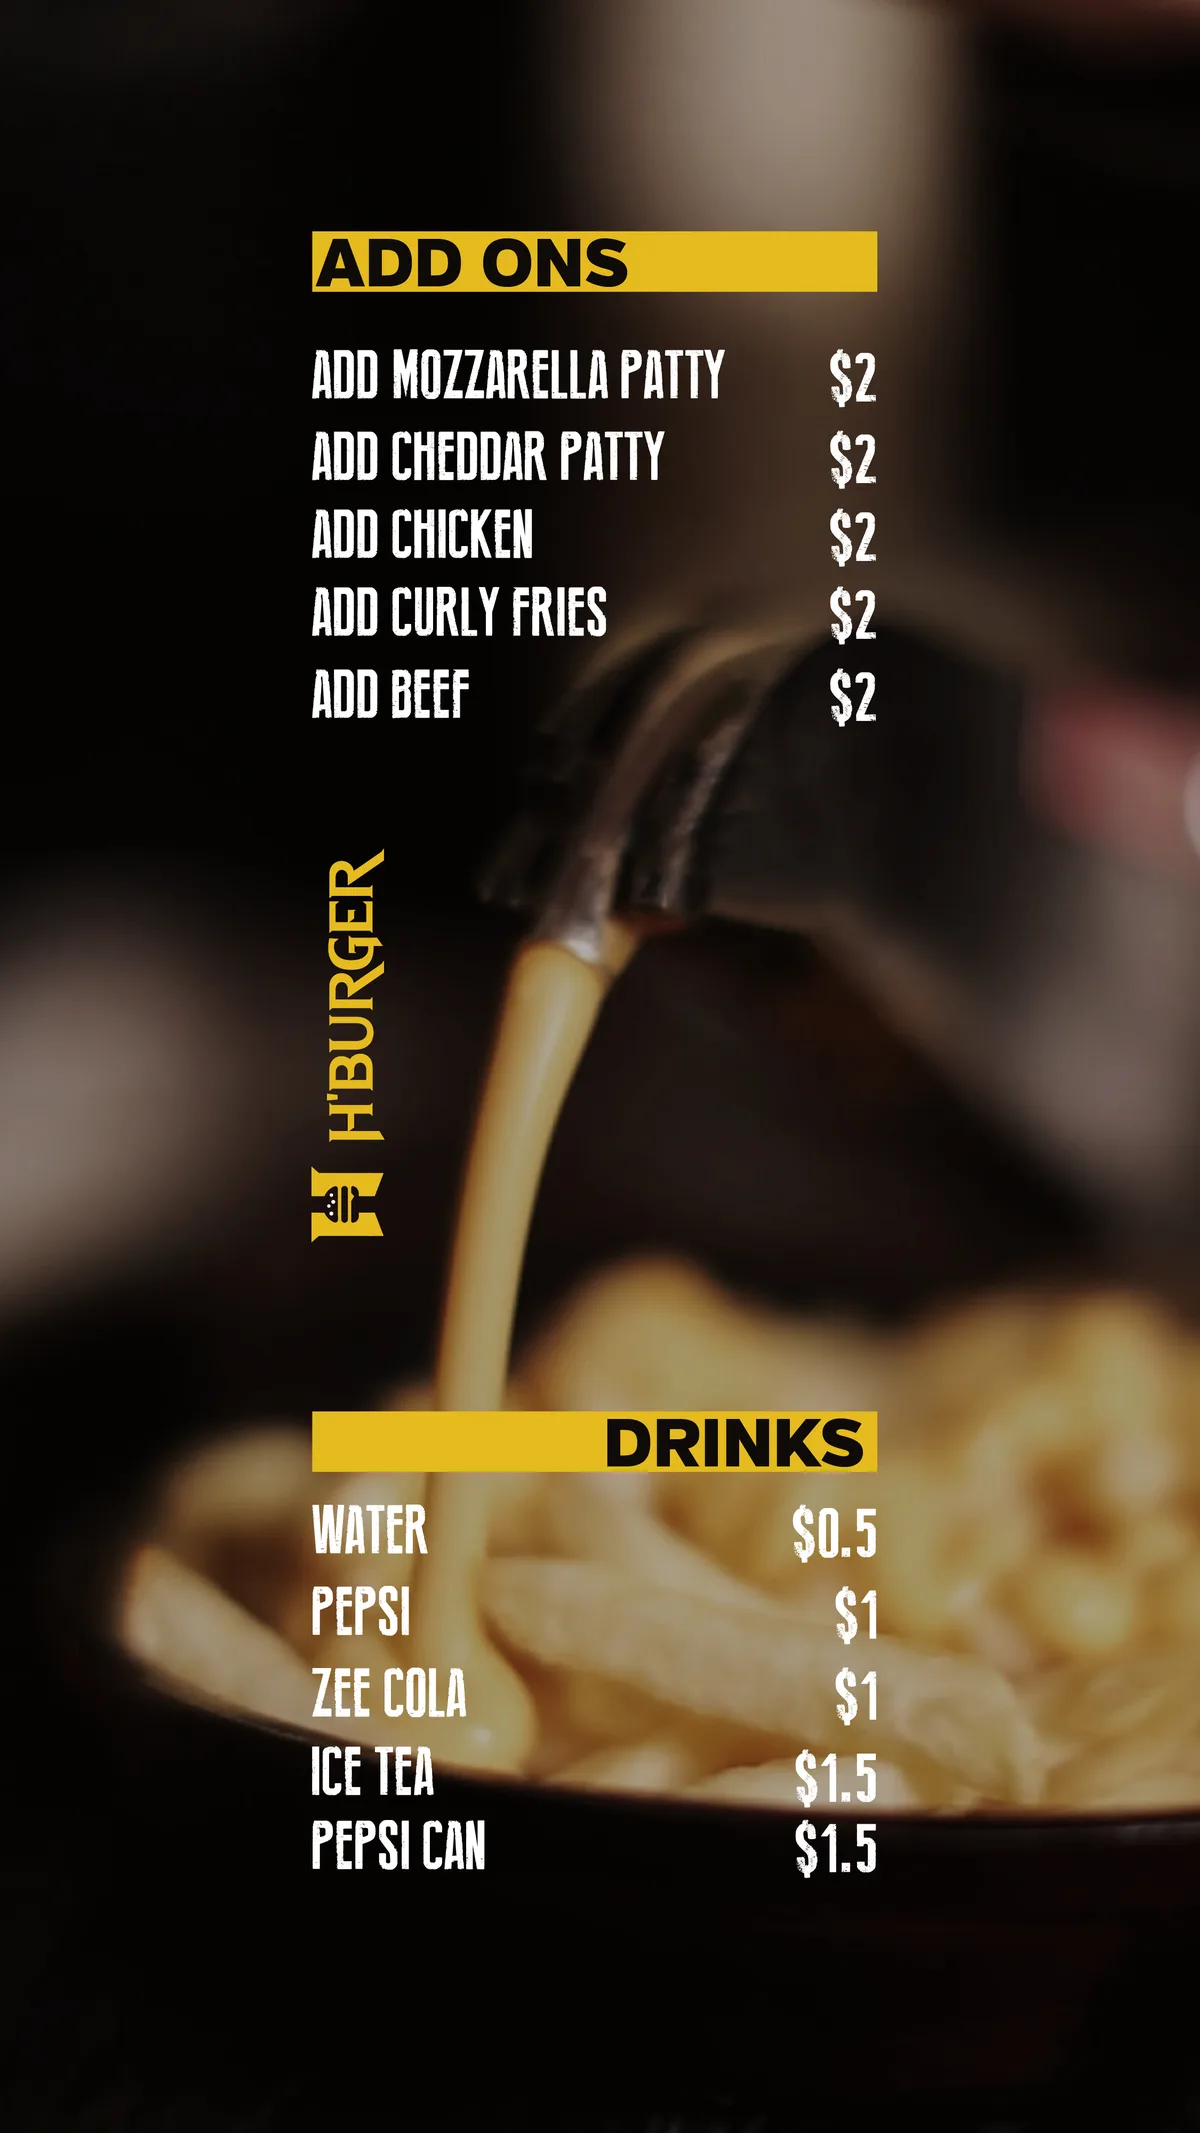
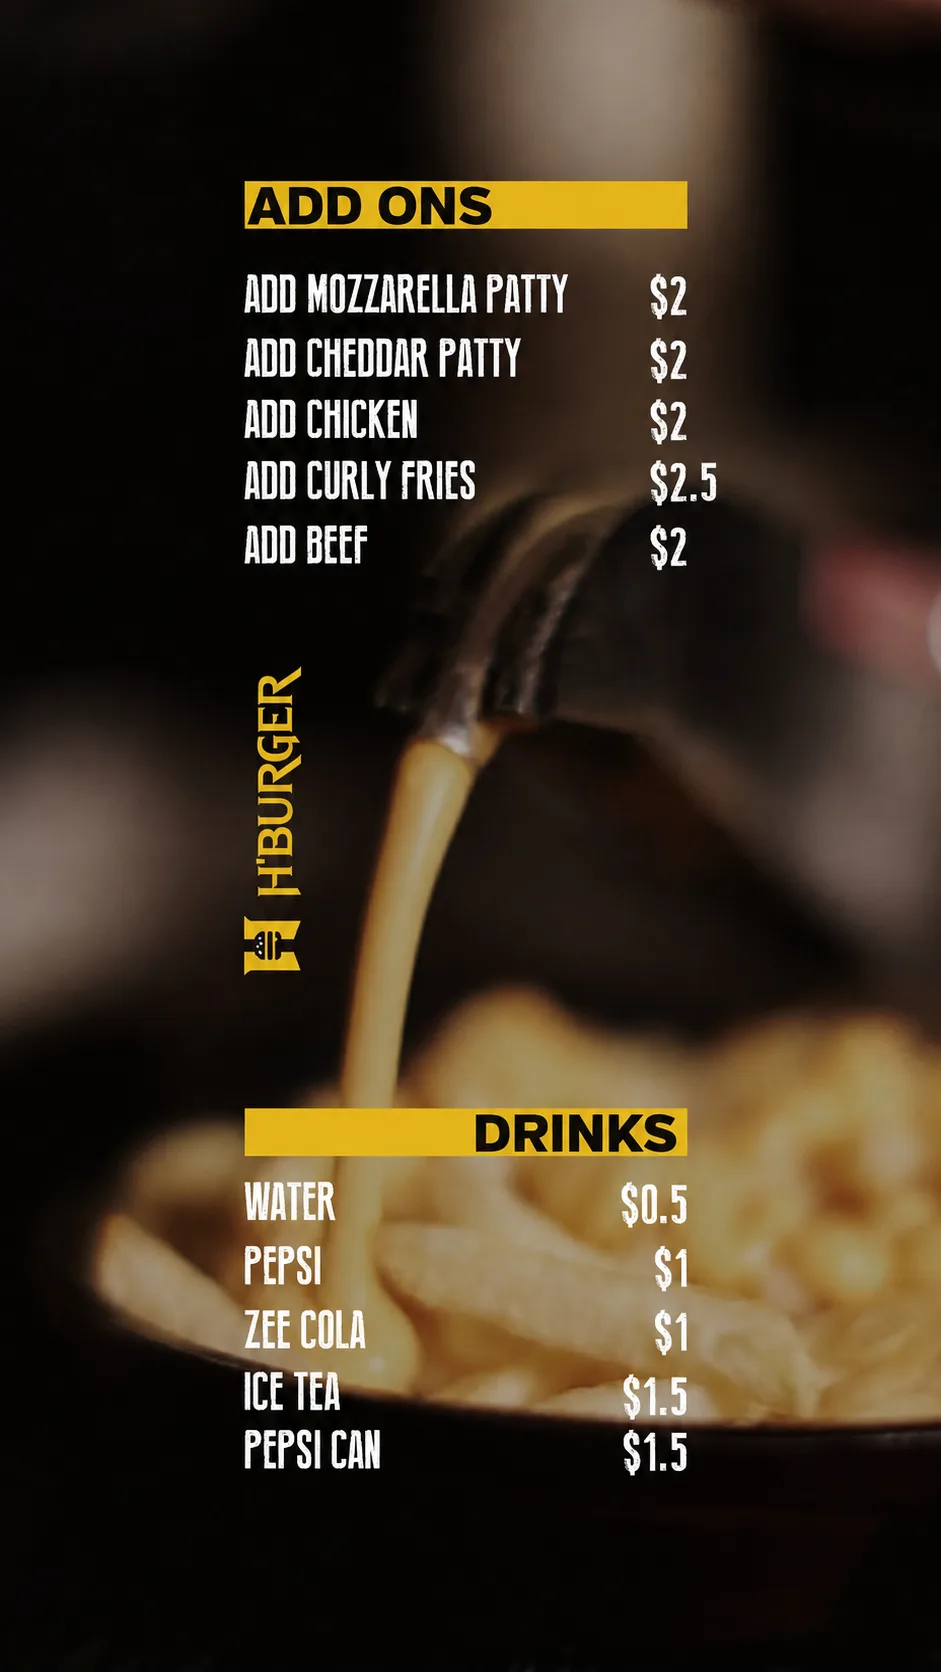
Update story-07 with clean native .5 price image

diff --git a/index.html b/index.html
@@ -24,11 +24,11 @@
     <!-- Story 2 -->
     <img src="images/story-02.webp" alt="H Burger Menu 2" onclick="openZoom(this.src)" loading="eager">
     
-    <!-- Story 3: Beef Burgers -->
+    <!-- Story 3 -->
     <img src="images/story-03.webp" alt="H Burger Menu 3" onclick="openZoom(this.src)" loading="lazy">
 
     <!-- Story 4: Chicken Section -->
-    <img src="images/story-04.webp" alt="H Burger Menu 4 (Chicken)" onclick="openZoom(this.src)" loading="lazy">
+    <img src="images/story-04.webp" alt="H Burger Menu 4" onclick="openZoom(this.src)" loading="lazy">
     
     <!-- Story 5: Combos with Happy Box ($40) & Burger Tower ($45) overlays -->
     <div class="img-container">
@@ -40,13 +40,8 @@
     <!-- Story 6 -->
     <img src="images/story-06.webp" alt="H Burger Menu 6" onclick="openZoom(this.src)" loading="lazy">
 
-    <!-- Story 7: Add-ons with ADD CURLY FRIES (.5) overlay -->
-    <div class="img-container">
-      <img src="images/story-07.webp" alt="H Burger Menu 7" onclick="openZoom(this.src)" loading="lazy">
-      <div class="curly-fries-dot5">
-        <span class="dot">.</span><span class="five">5</span>
-      </div>
-    </div>
+    <!-- Story 7: Clean Add-ons with native $2.5 price -->
+    <img src="images/story-07.webp" alt="H Burger Menu 7" onclick="openZoom(this.src)" loading="lazy">
   </main>
 
   <!-- Tap to Zoom Modal -->
